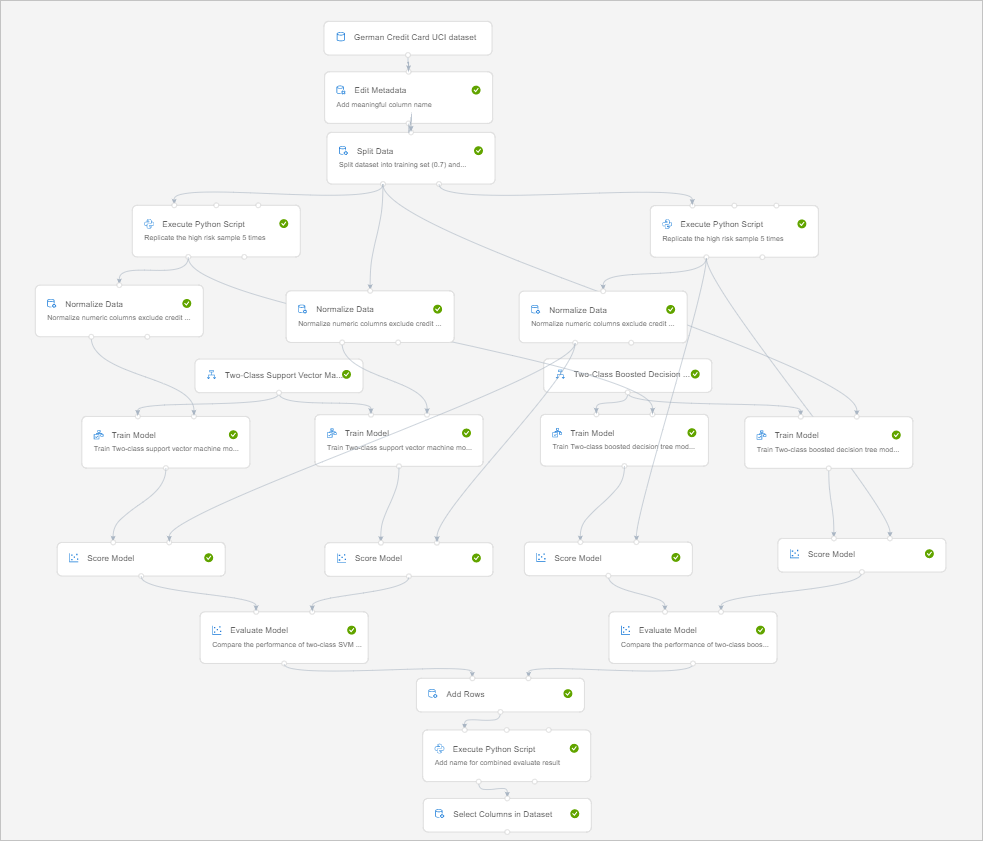
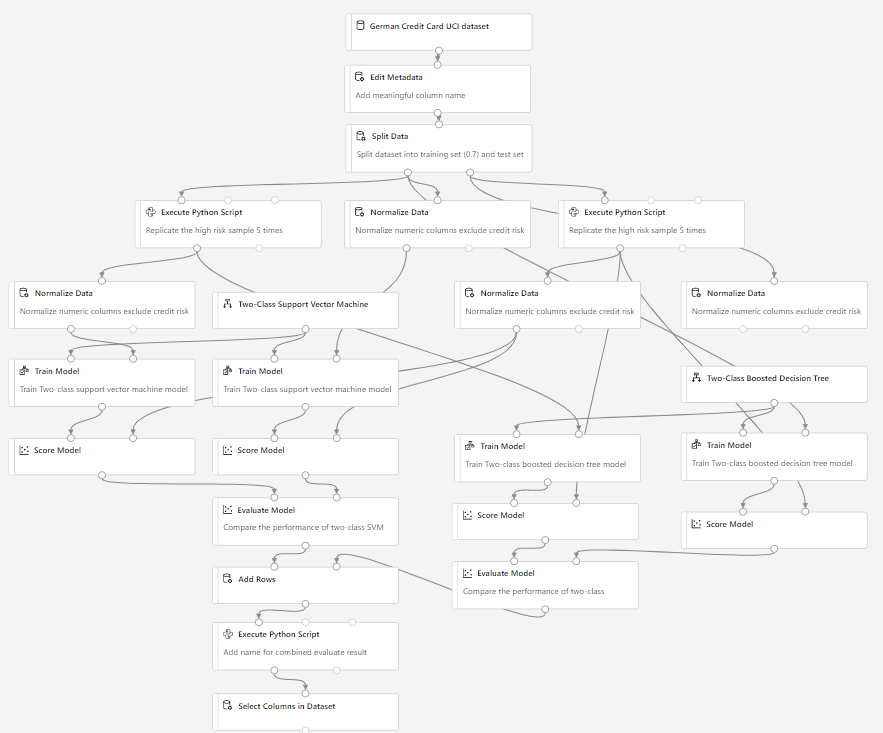
Update binary classification python

diff --git a/articles/samples/binary-classification-python-credit-prediction.md b/articles/samples/binary-classification-python-credit-prediction.md
@@ -26,10 +26,6 @@ With both approaches, you evaluate the models by using the test dataset with rep
 
 The cost of misclassifying a low-risk example as high is 1, and the cost of misclassifying a high-risk example as low is 5. We use an **Execute Python Script** module to account for this misclassification cost.
 
-Here's the graph of the pipeline:
-
-[![Graph of the pipeline](./media/binary-classification-python-credit-prediction/graph.png)](./media/binary-classification-python-credit-prediction/graph.png#lightbox)
-
 ## Data processing
 
 Start by using the **Metadata Editor** module to add column names to replace the default column names with more meaningful names, obtained from the dataset description on the UCI site. Provide the new column names as comma-separated values in the **New column** name field of the **Metadata Editor**.
@@ -118,7 +114,7 @@ def azureml_main(dataframe1 = None, dataframe2 = None):
 
 To view the results of the pipeline, you can right-click the Visualize output of the last **Select Columns in Dataset** module.
 
-![Visualize output](media/binary-classification-python-credit-prediction/sample4-lastselect-1225.png)
+![Visualize output](media/binary-classification-python-credit-prediction/visualize-output.png)
 
 The first column lists the machine learning algorithm used to generate the model.
 
